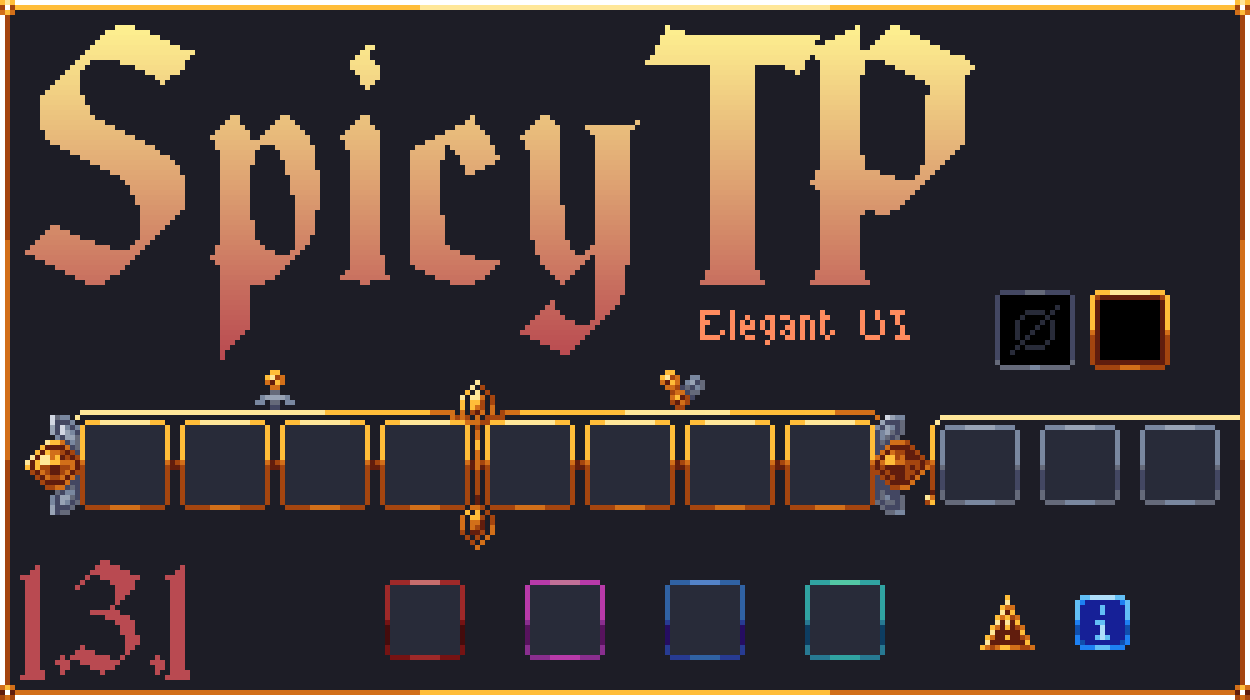
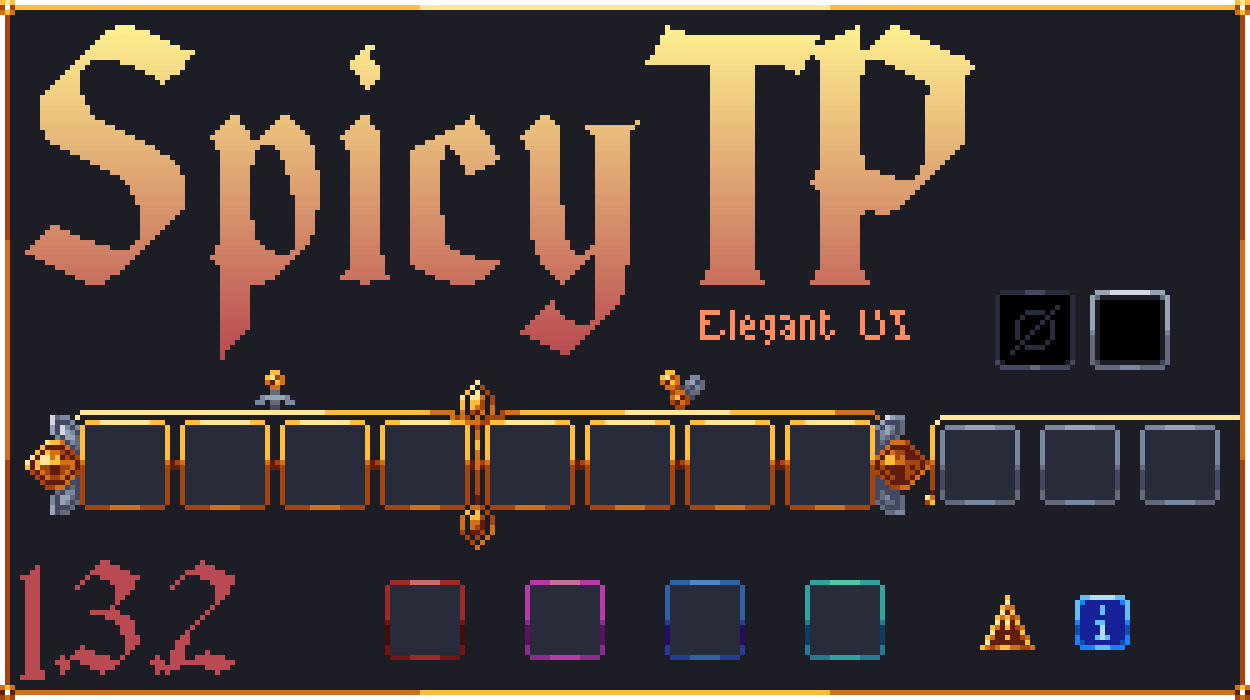
More progress menu visibility stuff

Changed region(s): [[0.78, 0.39, 0.936, 0.54], [0.1248, 0.81, 0.1872, 0.99], [0.8112, 0.39, 0.8424, 0.42]]

diff --git a/README.md b/README.md
@@ -1,4 +1,4 @@
-# Spicy's Texture Pack: Elegant UI 1.3.1
+# Spicy's Texture Pack: Elegant UI 1.3.2
 is a texture pack that gives Noita's UI a refined and shiny aesthetic.
 
 The full description is on the Steam Workshop. [Check it out there!](https://steamcommunity.com/sharedfiles/filedetails/?id=2887405712)
